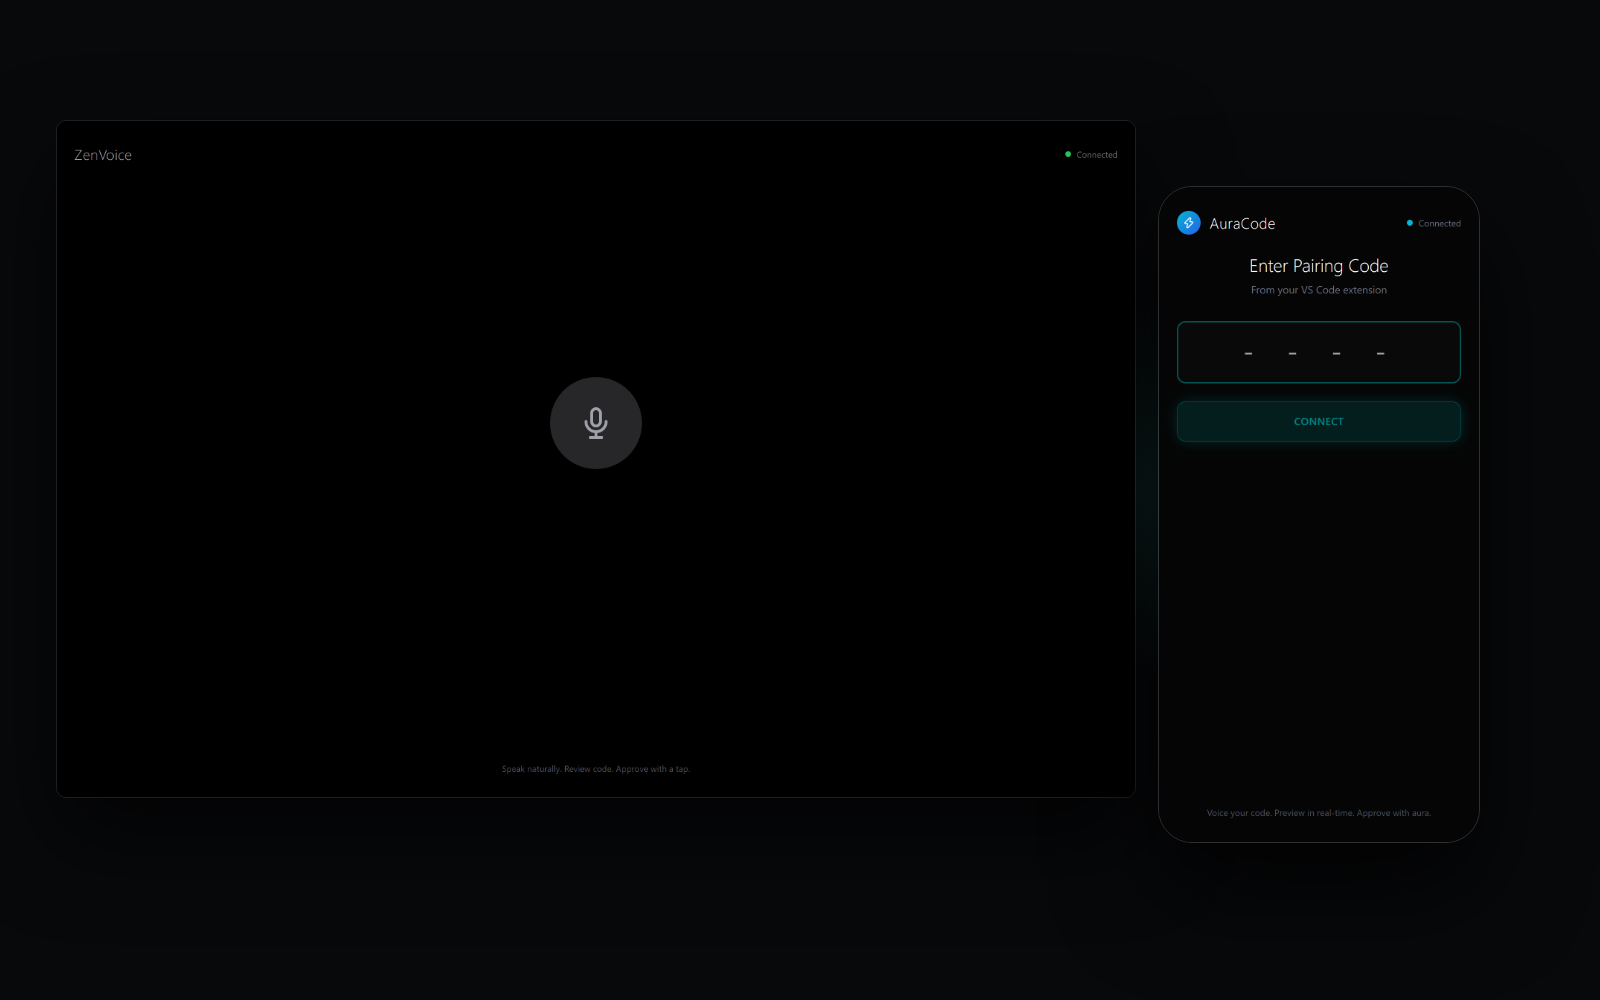
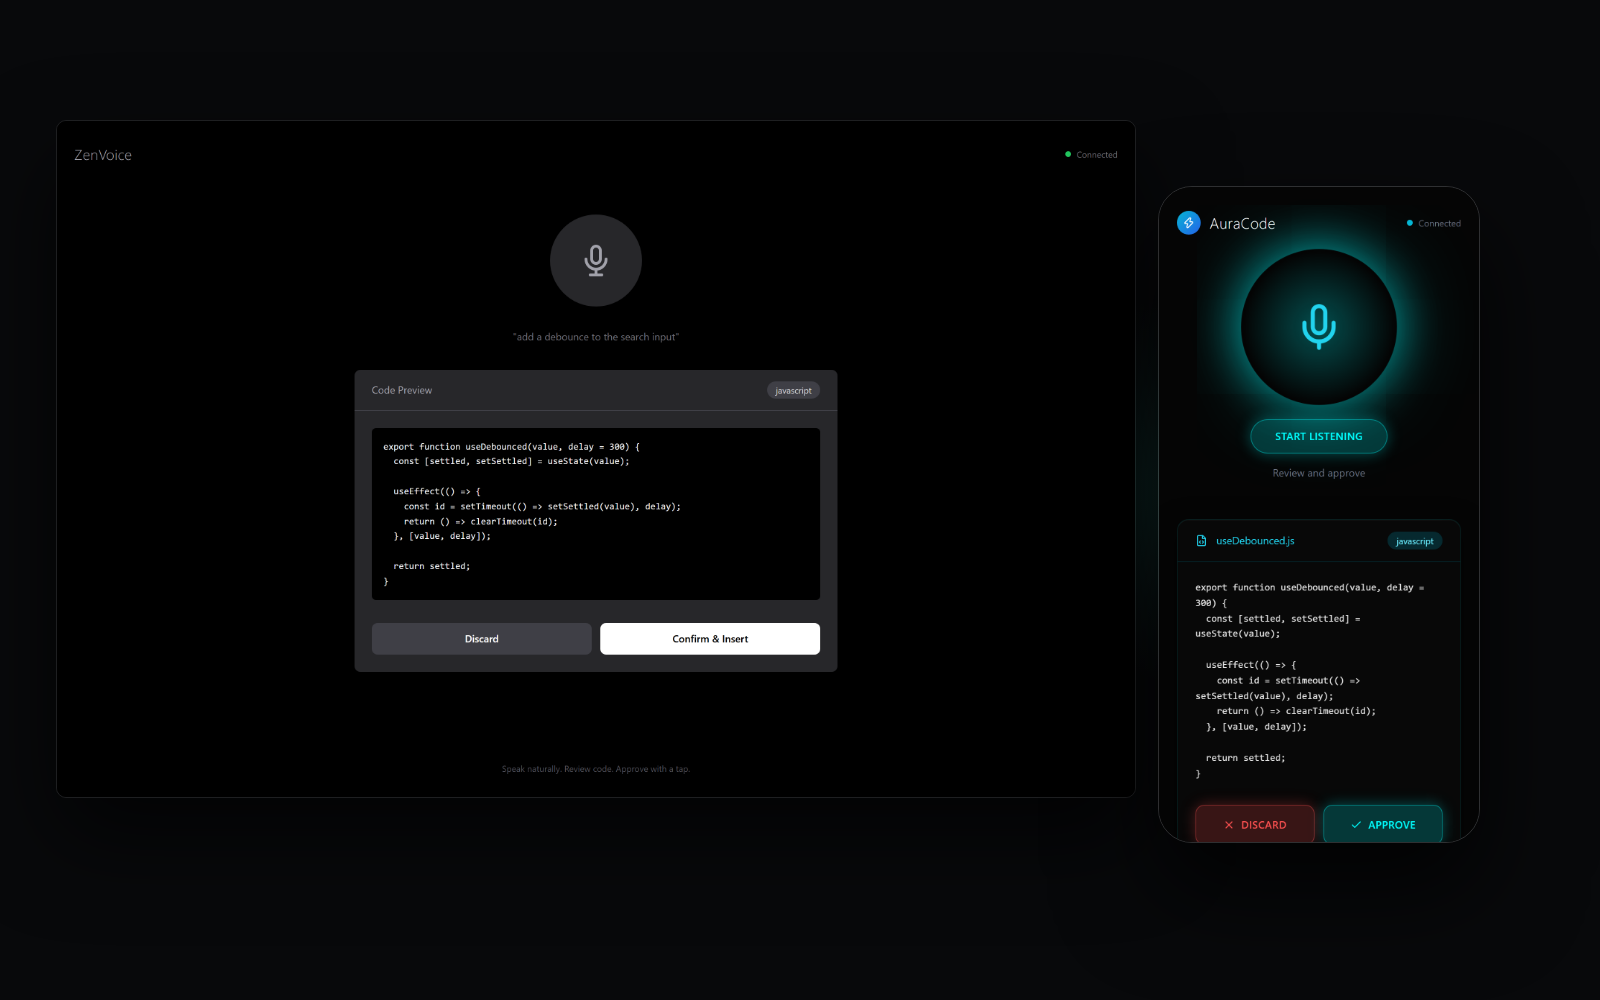
Show ZenCode reviewing code, not waiting to pair
The previous capture sat at the pairing step, which made a working project look
like an empty shell.

The reviewing UI was never missing — desktop `#previewCard` with its language
badge, code display and Confirm & Insert, and mobile `#mainInterface` with the
orb, file card and Discard/Approve, both ship in the repo's own markup. They
stay hidden until a paired VS Code session streams into them. So rather than
drawing a mock-up, this runs the real pages against the relay server in the
repo and populates exactly the fields handleStreamStart and handleStreamEnd
populate, in the same order.

Everything on screen is the project's own interface and CSS. Only the spoken
instruction and the snippet it produces are representative, because those come
from a live VS Code session there is no way to stage. Captioned as a
reconstruction, the same as the two Telegram bots.

diff --git a/src/data/cv.ts b/src/data/cv.ts
@@ -252,10 +252,14 @@ export type Project = {
  *  - CryptoIntel renders an onboarding empty state to a signed-out visitor,
  *    and populating it needs an admin password. The capture is honest about
  *    what it is rather than being staged.
- *  - ZenCode has no deploy, so its capture is its own source run locally
- *    against the relay server in the repo. Both halves report "Connected" but
- *    sit at the pairing step, because the populated view needs a live VS Code
- *    session driving it.
+ *  - ZenCode has no deploy, so its image is its own source cloned and run
+ *    against the relay server in the repo, then driven into the review state.
+ *    The reviewing UI is not drawn — desktop `#previewCard` and mobile
+ *    `#mainInterface` ship in the markup and are populated through the same
+ *    fields `handleStreamStart` and `handleStreamEnd` fill. Only the spoken
+ *    instruction and the resulting snippet are representative, because those
+ *    come from a live VS Code session there is no way to stage. Labelled a
+ *    reconstruction, like the two bots.
  *
  * The two Telegram bots have no web UI to capture at all. Their images are
  * reconstructions: the message text and inline keyboards are rendered verbatim
@@ -420,7 +424,7 @@ export const projects: Project[] = [
       {
         src: "/shot-zencode.png",
         caption:
-          "Desk and phone, both live against the repo's own relay server — paired but idle, since the populated view needs a running VS Code session",
+          "Reconstruction — the project's own pages, run against the relay server in its repo and driven into the review state, with a representative instruction and result",
       },
     ],
   },
